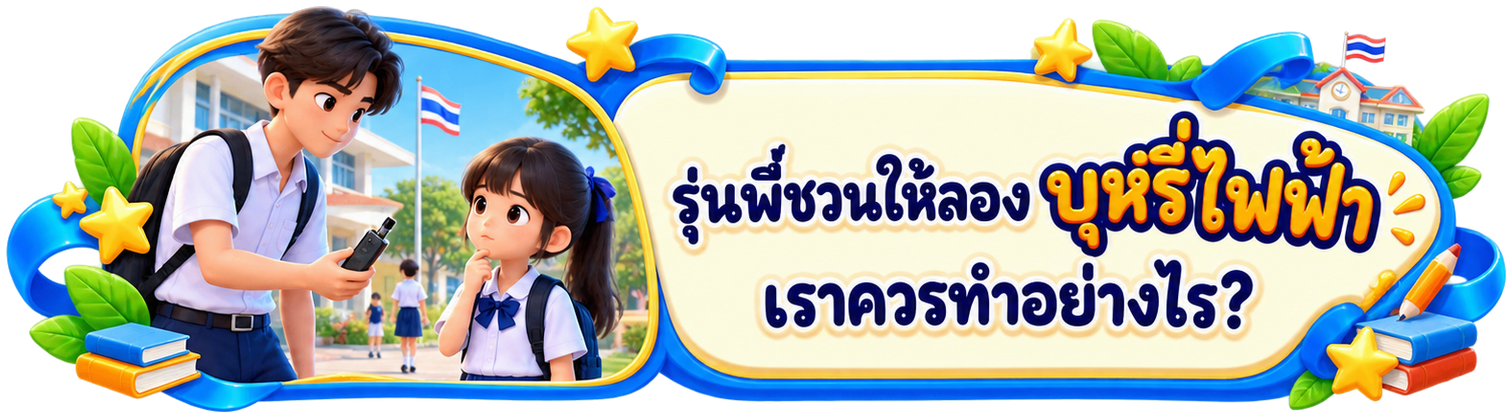
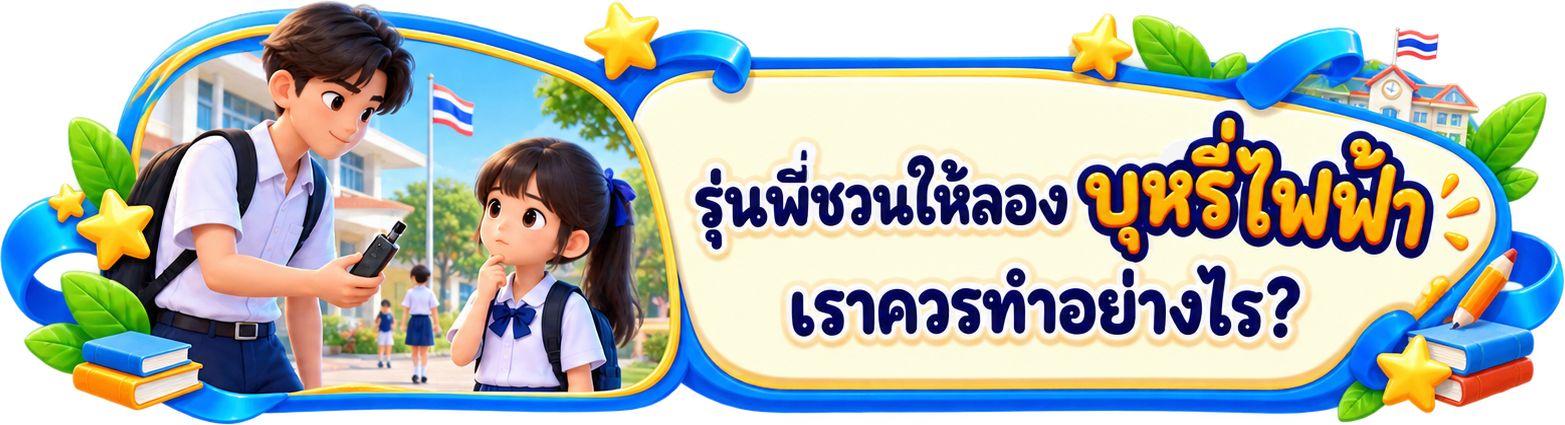
Update first scenario wording

diff --git a/app.js b/app.js
@@ -19,7 +19,7 @@ const scenarios = [
 scenarios.forEach((item,index)=>{
   const number=String(index+1).padStart(2,'0');
   const base=`./assets/scenarios/${number}`;
-  item.panels={question:`${base}/question-panel.png?v=3`,safe:`${base}/safe-panel.png?v=3`,risk:`${base}/risk-panel.png?v=3`};
+  item.panels={question:`${base}/question-panel.png?v=4`,safe:`${base}/safe-panel.png?v=4`,risk:`${base}/risk-panel.png?v=4`};
   item.voice={question:`./assets/voice/q${number}.wav`,safe:`./assets/voice/safe${number}.wav`,risk:`./assets/voice/risk${number}.wav`};
 });
 

diff --git a/index.html b/index.html
@@ -162,6 +162,6 @@
       <div id="rotatePrompt" class="rotate-prompt"><span>↻</span><strong>หมุนอุปกรณ์เป็นแนวนอน</strong><p>เพื่อให้เห็นตัวเลือกครบและเล่นได้ถนัด</p></div>
     </section>
   </main>
-  <script type="module" src="app.js?v=22"></script>
+  <script type="module" src="app.js?v=23"></script>
 </body>
 </html>
